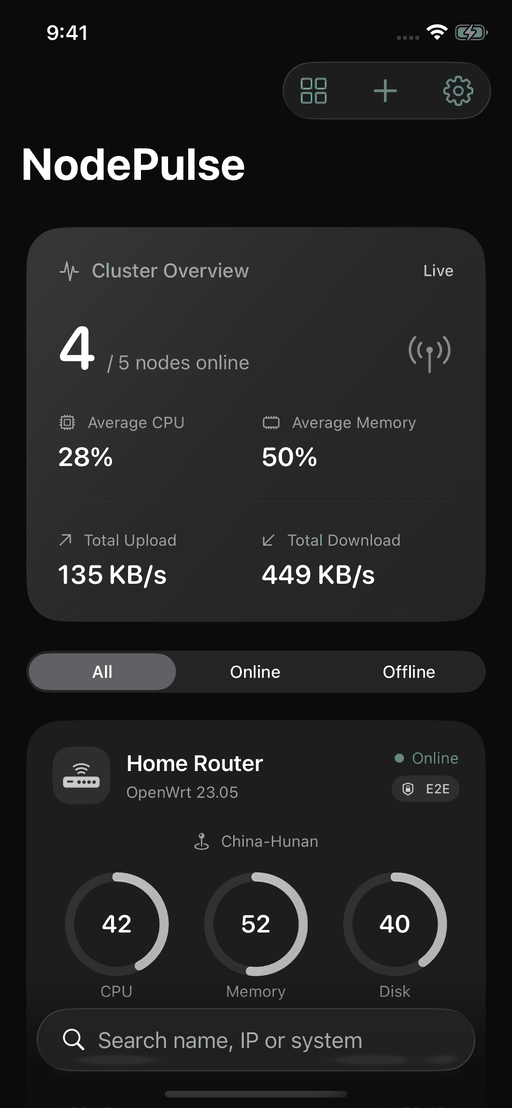
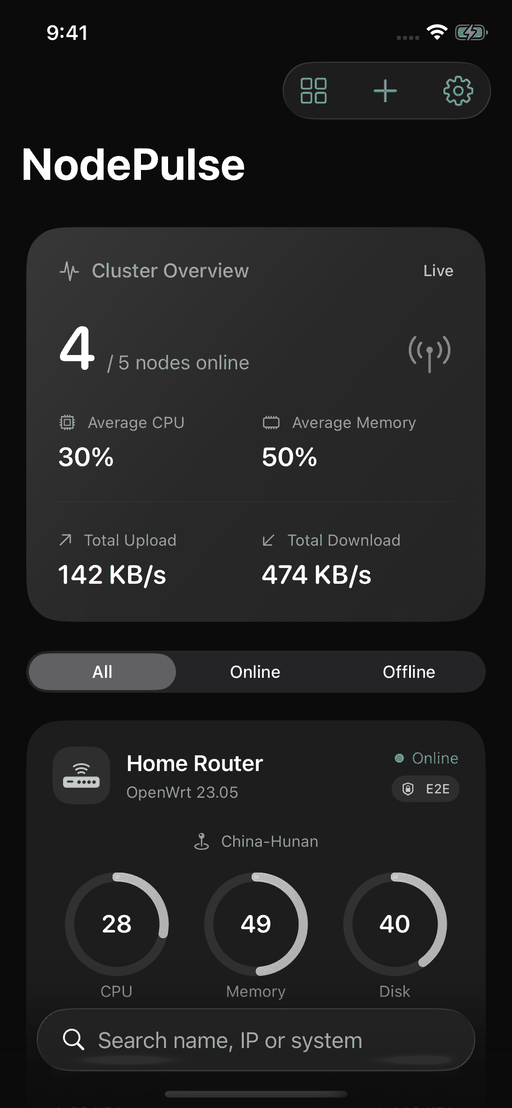
Recapture settled demo digits in README artwork

diff --git a/docs/assets/README.md b/docs/assets/README.md
@@ -12,6 +12,15 @@ Grayscale appears in dark/light dashboards and the updated compact detail header
 The original full-resolution captures are in `ios/build/screens/`
 (ignored build artifacts); optimized source PNGs are committed here.
 
+For still captures, launch the debug app with `-demo -refreshInterval 3600`.
+The launch argument overrides the polling preference for that process only:
+the initial demo snapshot and history are real, but cannot change during capture.
+Wait at least two seconds after launch, navigation or layout/theme changes before
+taking a screenshot. Normal demo mode remains live; its three-second updates use
+SwiftUI numeric transitions, whose deliberately blurred intermediate digits must
+not be captured for documentation. Check original and optimized numeric crops
+before regenerating heroes. Do not paint over or substitute screenshot digits.
+
 Regenerate the 2400×1200 hero banners on macOS with Pillow:
 
 ```sh
